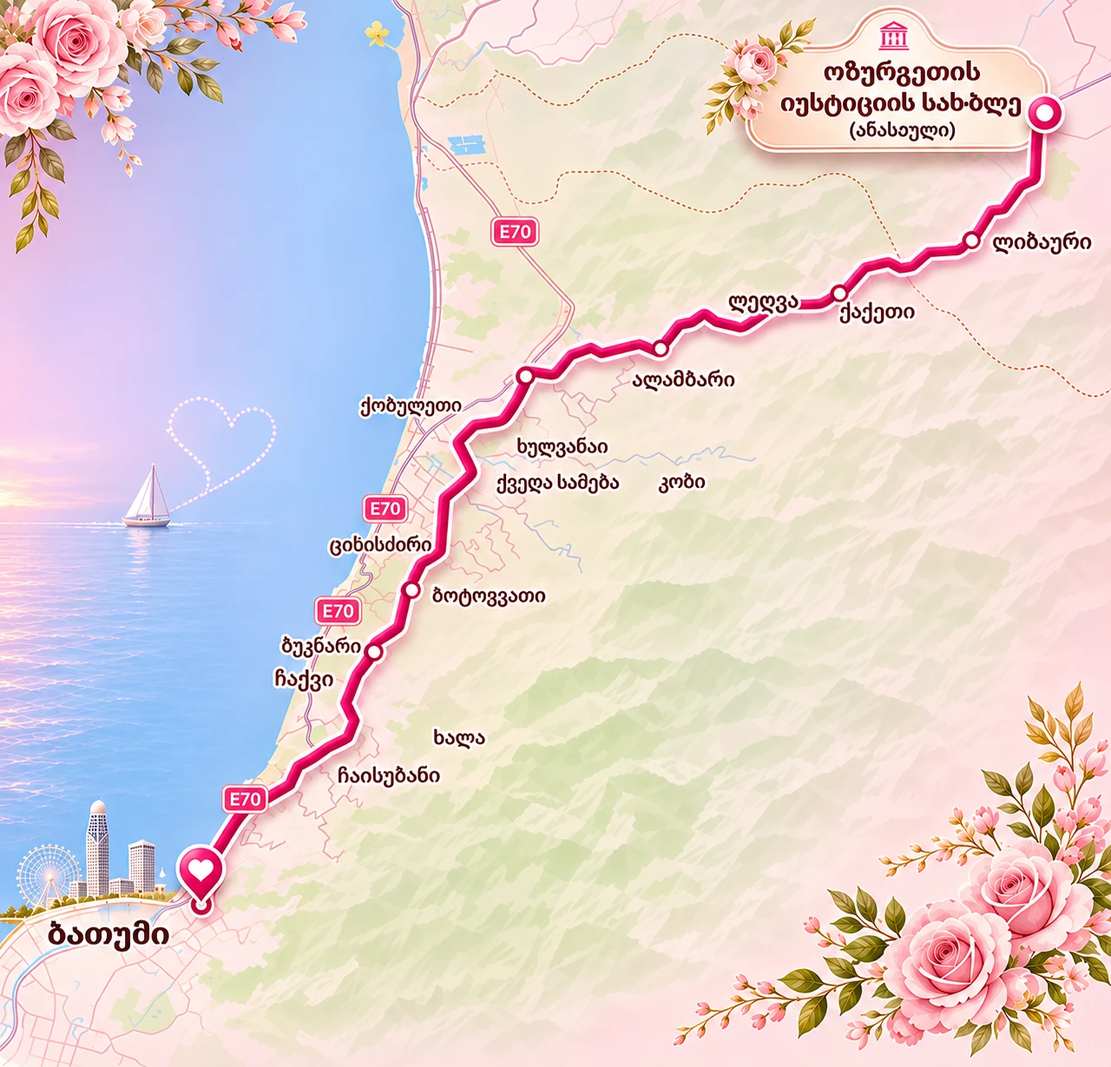
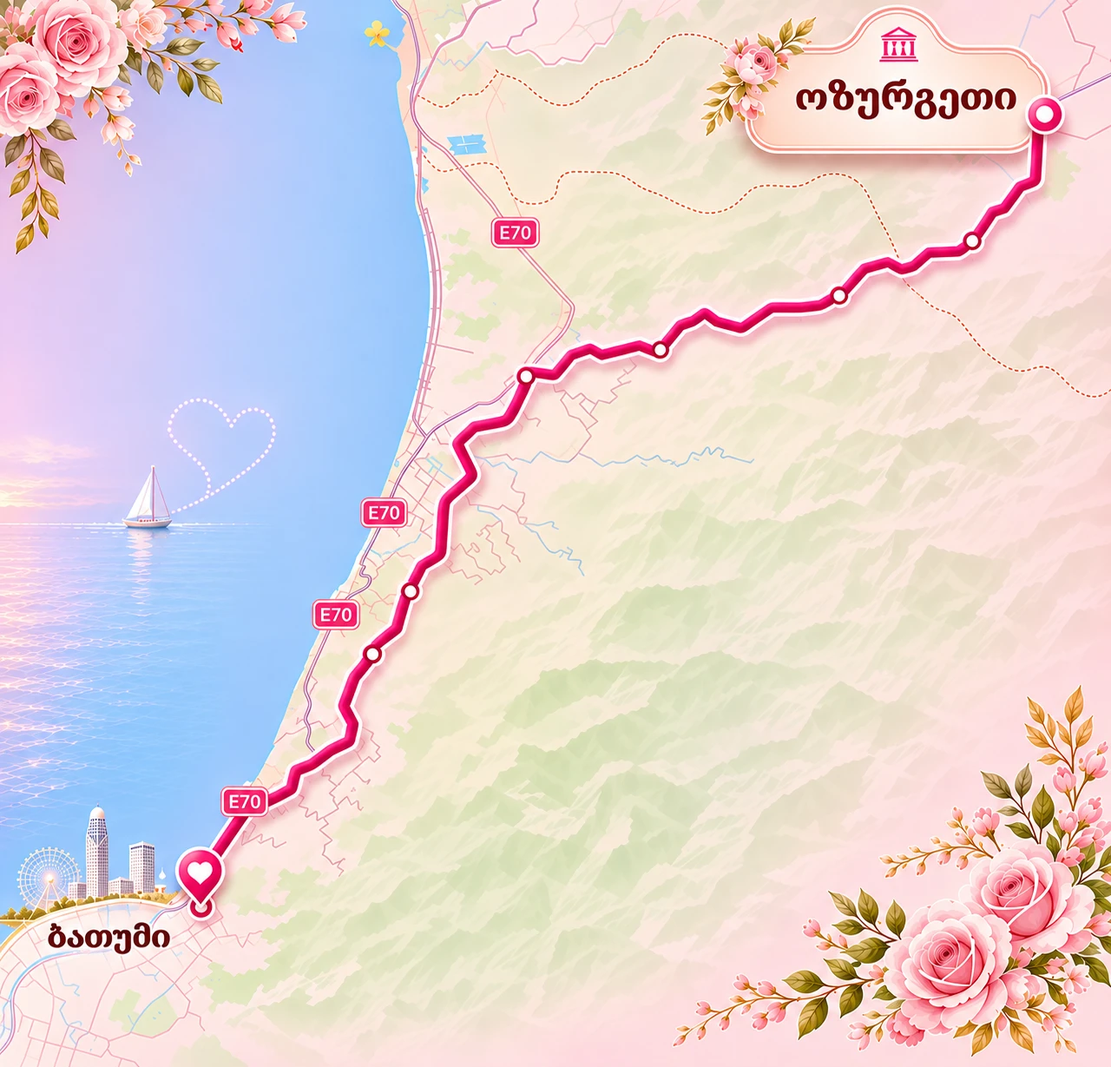
feat: update journey map to the cleaner version (cache-busted)
Replace journey-map.webp with the couple's cleaner Ozurgeti→Batumi map,
and reference it as journey-map.webp?v=2 so browsers and the CDN fetch
the new image instead of the cached old one.

diff --git a/index.html b/index.html
@@ -13,4 +13,4 @@
 @media(prefers-reduced-motion:reduce){#preloader .pl-prog{transition:none}}
 </style></head><body class="locked"><div id="preloader" role="progressbar" aria-valuemin="0" aria-valuemax="100" aria-valuenow="0" aria-label="საიტის ჩატვირთვა"><div class="pl-inner"><p class="pl-names">შოთა <em>&</em> ქეთი</p><div class="pl-ring"><svg viewBox="0 0 118 118"><circle class="pl-track" cx="59" cy="59" r="54"/><circle class="pl-prog" cx="59" cy="59" r="54"/></svg><span class="pl-pct" aria-live="polite">0%</span></div><p class="pl-label">მოსაწვევი იტვირთება…</p></div></div>
 <div id="intro" class="intro"><div class="intro-top"><span>ერთად იწყება ჩვენი ამბავი</span><span>14 / 11 / 2026</span></div><div class="scene photographic" id="scene"><div class="ceremony" id="ceremony"><video id="entrance-video" muted playsinline preload="auto" poster="open-aisle.jpg" aria-label="კარიბჭის მიღმა ნეფე-პატარძლის სიარული"><source src="wedding-video.mp4" type="video/mp4"></video></div><div class="gate-frame"><div class="photo-surround"></div><div class="gate left" id="leftGate"></div><div class="gate right" id="rightGate"></div></div></div><div class="intro-copy"><p class="eyebrow">მოხარულები ვართ, რომ ჩვენი ამბის ნაწილი ხართ</p><h1>შოთა <em>&</em> ქეთი</h1><p>ერთი სიყვარული. ერთი განსაკუთრებული დღე.</p><button id="open" class="primary">გახსენით მოსაწვევი <span>⟶</span></button><p class="small">14 ნოემბერი, 2026 · შაბათი</p></div><button id="skip" class="skip" hidden>მოსაწვევზე გადასვლა ⟶</button><div id="scene-caption" class="scene-caption" aria-live="polite"></div></div>
-<main id="main" hidden><svg class="vine-defs" xmlns="http://www.w3.org/2000/svg" aria-hidden="true"><defs><g id="grape-leaf"><path d="M0 0C-9-12-30-10-28-23L-39-28L-27-34L-35-45L-20-44L-19-59L-6-49L0-68L7-49L22-59L21-42L37-45L29-31L42-25L27-18C26-5 8-10 0 0Z"/><path class="leaf-veins" d="M0 0V-59M0-15L-25-34M0-26L-15-46M0-15L27-29M0-29L16-47"/></g><symbol id="vine-spray" viewBox="0 0 190 650"><path class="vine-stem" d="M20 650C8 562 104 550 68 455S32 324 96 258S127 124 101 0"/><path class="vine-tendril" d="M68 458C143 464 159 404 121 402C93 403 106 439 127 421M72 303C8 300 9 249 37 253C59 259 43 286 30 273M118 132C178 141 179 91 153 96C136 100 145 122 159 113"/><g class="vine-leaves"><use href="#grape-leaf" transform="translate(64 555) rotate(-58) scale(1.05)"/><use href="#grape-leaf" transform="translate(60 484) rotate(44) scale(.9)"/><use href="#grape-leaf" transform="translate(49 389) rotate(-55) scale(1.1)"/><use href="#grape-leaf" transform="translate(74 308) rotate(48) scale(.95)"/><use href="#grape-leaf" transform="translate(113 224) rotate(-45) scale(.85)"/><use href="#grape-leaf" transform="translate(123 147) rotate(56) scale(.8)"/><use href="#grape-leaf" transform="translate(113 65) rotate(-38) scale(.65)"/></g></symbol></defs></svg><div class="vine-border vine-border-left" aria-hidden="true"><svg viewBox="0 0 190 650"><use href="#vine-spray"/></svg></div><div class="vine-border vine-border-right" aria-hidden="true"><svg viewBox="0 0 190 650"><use href="#vine-spray"/></svg></div><header><a href="#home" class="brand" aria-label="შოთა და ქეთი — მთავარი"><img src="monogram.jpg" alt="შოთასა და ქეთის ოქროს მონოგრამა" width="60" height="60"></a><nav><a href="#schedule">განრიგი</a><a href="#gallery">გალერეა</a><a href="#rsvp">დადასტურება</a></nav></header><section class="hero" id="home"><div class="hero-art"><video id="hero-video" muted loop playsinline preload="none" poster="garden-ceremony.jpg" aria-label="საქორწილო ვიდეო — უწყვეტი გამეორება"><source src="wedding-video.mp4" type="video/mp4"></video><span>ჩვენი დღის შთაგონება</span></div><div class="hero-copy"><img class="hero-crest" src="monogram.jpg" alt="შ & ქ მონოგრამა" width="78" height="78"><p class="eyebrow">ჩვენ ვქორწინდებით</p><h2>შოთა<br><em>&</em> ქეთი</h2><div class="hero-flourish" aria-hidden="true"><svg viewBox="0 0 240 44"><path class="vine-stem" d="M14 24Q68 8 120 22T226 20"/><use href="#grape-leaf" transform="translate(80 20) rotate(-26) scale(.32)"/><use href="#grape-leaf" transform="translate(120 24) rotate(150) scale(.3)"/><use href="#grape-leaf" transform="translate(160 19) rotate(-30) scale(.3)"/></svg></div><p class="date">14 ნოემბერი, 2026 · შაბათი</p><p class="hero-place">ოზურგეთი &amp; ბათუმი</p><p>სიხარულით გიწვევთ ჩვენი სიყვარულის<br>ყველაზე განსაკუთრებულ დღეს.</p><a class="text-link" href="#schedule">ჩვენი დღის განრიგი ↓</a></div></section><section class="count-section" id="wedding-calendar"><p class="eyebrow calendar-kicker">შეინახეთ თარიღი</p><h2 class="month-title">ნოემბერი <span>2026</span></h2><div class="calendar-rule"></div><div class="vine-divider" aria-hidden="true"><svg viewBox="0 0 300 75"><path class="vine-stem" d="M15 50Q75 16 150 43T285 30"/><use href="#grape-leaf" transform="translate(80 35) rotate(-30) scale(.42)"/><use href="#grape-leaf" transform="translate(125 39) rotate(140) scale(.37)"/><use href="#grape-leaf" transform="translate(180 48) rotate(28) scale(.42)"/><use href="#grape-leaf" transform="translate(230 44) rotate(140) scale(.34)"/></svg></div><div class="month-card" aria-label="2026 წლის ნოემბრის კალენდარი"><svg class="mc-leaf mc-leaf-tl" viewBox="0 0 70 70" aria-hidden="true"><use href="#grape-leaf" transform="translate(34 36) rotate(18) scale(.52)"/></svg><svg class="mc-leaf mc-leaf-br" viewBox="0 0 70 70" aria-hidden="true"><use href="#grape-leaf" transform="translate(36 34) rotate(198) scale(.52)"/></svg><div class="weekdays"><span>ორ</span><span>სა</span><span>ოთ</span><span>ხუ</span><span>პა</span><span>შა</span><span>კვ</span></div><div class="month-grid"><span class="empty" aria-hidden="true"></span><span class="empty" aria-hidden="true"></span><span class="empty" aria-hidden="true"></span><span class="empty" aria-hidden="true"></span><span class="empty" aria-hidden="true"></span><span class="empty" aria-hidden="true"></span><span class="month-day"><span>1</span></span><span class="month-day"><span>2</span></span><span class="month-day"><span>3</span></span><span class="month-day"><span>4</span></span><span class="month-day"><span>5</span></span><span class="month-day"><span>6</span></span><span class="month-day"><span>7</span></span><span class="month-day"><span>8</span></span><span class="month-day"><span>9</span></span><span class="month-day"><span>10</span></span><span class="month-day"><span>11</span></span><span class="month-day"><span>12</span></span><span class="month-day"><span>13</span></span><span class="month-day wedding-day" aria-label="14 ნოემბერი — ჩვენი ქორწილის დღე"><span>14</span><svg viewBox="0 0 100 94" aria-hidden="true"><path d="M50 85C36 72 7 54 7 29C7 3 38 0 50 22C62 0 93 3 93 29C93 54 64 72 50 85Z"/></svg><small class="wd-label">ჩვენი დღე</small></span><span class="month-day"><span>15</span></span><span class="month-day"><span>16</span></span><span class="month-day"><span>17</span></span><span class="month-day"><span>18</span></span><span class="month-day"><span>19</span></span><span class="month-day"><span>20</span></span><span class="month-day"><span>21</span></span><span class="month-day"><span>22</span></span><span class="month-day"><span>23</span></span><span class="month-day"><span>24</span></span><span class="month-day"><span>25</span></span><span class="month-day"><span>26</span></span><span class="month-day"><span>27</span></span><span class="month-day"><span>28</span></span><span class="month-day"><span>29</span></span><span class="month-day"><span>30</span></span></div></div><p class="eyebrow countdown-title">ჩვენს დიდ დღემდე დარჩა</p><div id="countdown" class="countdown" role="timer" aria-label="ქორწილამდე დარჩენილი დრო"></div><p class="small" id="count-label">14 ნოემბერი · 13:00 · საქართველოს დროით</p></section><section id="schedule" class="schedule"><p class="eyebrow">დღე, რომელსაც ერთად გავიხსენებთ</p><h2>ჩვენი დღის განრიგი</h2><p class="location-hint">დააჭირეთ „მაჩვენე გზა“ — მარშრუტი პირდაპირ გაიხსნება</p><div class="journey reveal" aria-label="ჩვენი დღის მოგზაურობის რუკა"><img class="journey-photo" src="journey-map.webp" alt="ჩვენი დღის მოგზაურობა — ოზურგეთიდან ბათუმამდე" loading="lazy" width="1280" height="1229"><p class="journey-note">ჩვენი დღის მოგზაურობა — ოზურგეთიდან ბათუმამდე</p></div><div class="events"><article><span class="event-no">I</span><time>13:00</time><h3>ჯვრისწერა</h3><p>ოზურგეთის ღვთისმშობლის მიძინების<br>საკათედრო ტაძარი</p><a class="map-button" target="_blank" rel="noopener noreferrer" aria-label="ჯვრისწერის ადგილის რუკის გახსნა Google Maps-ში" href="https://www.google.com/maps/dir/?api=1&amp;destination=W2F3%2B94F%2C%20Ozurgeti%2C%20Georgia&amp;travelmode=driving&amp;dir_action=navigate"><svg viewBox="0 0 24 24" fill="none" aria-hidden="true"><path d="M20 10c0 6-8 12-8 12S4 16 4 10a8 8 0 1 1 16 0Z"/><circle cx="12" cy="10" r="2.5"/></svg><span>მაჩვენე გზა<small>Google Maps</small></span><span class="map-arrow">↗</span></a></article><article><span class="event-no">II</span><time>14:00</time><h3>ხელმოწერა</h3><p>ოზურგეთის იუსტიციის სახლი<br>იოანე პეტრიწის ქუჩა</p><a class="map-button" target="_blank" rel="noopener noreferrer" aria-label="იუსტიციის სახლის რუკის გახსნა Google Maps-ში" href="https://www.google.com/maps/dir/?api=1&amp;destination=W2F3%2B5X9%2C%20Ozurgeti%2C%20Georgia&amp;travelmode=driving&amp;dir_action=navigate"><svg viewBox="0 0 24 24" fill="none" aria-hidden="true"><path d="M20 10c0 6-8 12-8 12S4 16 4 10a8 8 0 1 1 16 0Z"/><circle cx="12" cy="10" r="2.5"/></svg><span>მაჩვენე გზა<small>Google Maps</small></span><span class="map-arrow">↗</span></a></article><article><span class="event-no">III</span><time>18:00</time><h3>საზეიმო ვახშამი</h3><p>ბათუმი<br>რესტორანი კრისტალ ჰოლი</p><a class="map-button" target="_blank" rel="noopener noreferrer" aria-label="საზეიმო ვახშმის ადგილის რუკის გახსნა Google Maps-ში" href="https://www.google.com/maps/dir/?api=1&amp;destination=41.6498757%2C41.7037522&amp;travelmode=driving&amp;dir_action=navigate"><svg viewBox="0 0 24 24" fill="none" aria-hidden="true"><path d="M20 10c0 6-8 12-8 12S4 16 4 10a8 8 0 1 1 16 0Z"/><circle cx="12" cy="10" r="2.5"/></svg><span>მაჩვენე გზა<small>Google Maps</small></span><span class="map-arrow">↗</span></a></article></div><a class="calendar" href="wedding.ics" download>＋ კალენდარში დამატება</a></section><section class="gallery" id="gallery"><div><p class="eyebrow">ჩვენი დღის განწყობა</p><h2>სიყვარულის ფერებში</h2><p>ყვავილები, თბილი სინათლე და თქვენ — ჩვენ გვერდით.</p></div><div class="photos"><button data-photo="table.jpg" aria-label="ყვავილების ფოტოს გადიდება"><img loading="lazy" src="table.jpg" alt="ოქროს დეტალები, თეთრი ყვავილები და სანთლები"></button><button data-photo="garden-ceremony.jpg" aria-label="ცერემონიის ფოტოს გადიდება"><img loading="lazy" src="garden-ceremony.jpg" alt="ბაღის ცერემონიის საცნობარო ფოტო"></button><button data-photo="church.jpg" aria-label="ტაძრის ფოტოს გადიდება"><img loading="lazy" src="church.jpg" alt="მოწოდებული ტაძრის საცნობარო ფოტო"></button></div><p class="small">საცნობარო გალერეა · წყვილის პირადი ფოტოები დაემატება მოგვიანებით</p></section><section id="rsvp" class="rsvp"><p class="eyebrow">გთხოვთ, დაგვიდასტუროთ</p><h2>დაადასტურეთ დასწრება</h2><p class="rsvp-sub">თქვენი პასუხი დაგვეხმარება დღის მოწყობაში</p><form id="rsvp-form" class="rsvp-form" novalidate><label class="rsvp-field"><span>სახელი და გვარი</span><input type="text" id="rsvp-name" required autocomplete="name" placeholder="თქვენი სახელი და გვარი"></label><div class="rsvp-field"><span>მობრძანდებით?</span><div class="rsvp-choice" role="group" aria-label="მობრძანდებით?"><button type="button" class="rsvp-opt" data-attend="სიამოვნებით მოვალ" aria-pressed="false">სიამოვნებით მოვალ</button><button type="button" class="rsvp-opt" data-attend="სამწუხაროდ, ვერ მოვალ" aria-pressed="false">სამწუხაროდ, ვერ მოვალ</button></div></div><label class="rsvp-field rsvp-persons" hidden><span>რამდენი პერსონა მობრძანდებით?</span><select id="rsvp-persons"><option value="1">1</option><option value="2">2</option><option value="3">3</option><option value="4">4</option><option value="5">5</option><option value="6">6</option><option value="7">7</option><option value="8">8</option><option value="9">9</option><option value="10">10</option><option value="11">11</option></select></label><button type="submit" class="rsvp-submit">გაგზავნა <span>→</span></button><p class="rsvp-msg" aria-live="polite"></p></form><div class="rsvp-done" hidden><div class="rsvp-done-mark" aria-hidden="true">♥</div><h3></h3><p></p></div></section><footer><img class="footer-logo" src="monogram.jpg" alt="შოთასა და ქეთის ოქროს მონოგრამა" width="110" height="110"><p>გელოდებით სიყვარულით</p><h2>შოთა <em>&</em> ქეთი</h2><p>14 · 11 · 2026</p><a class="credit" href="https://visionx.ge/" target="_blank" rel="noopener noreferrer">Created by <strong>visionx</strong></a></footer></main><audio id="wedding-audio" src="wedding-music.m4a" preload="metadata" loop></audio><button id="music" class="music" aria-pressed="false" aria-label="ფონური მუსიკის ჩართვა">♫ <span>მუსიკა</span></button><dialog id="lightbox"><button id="close-photo" aria-label="ფოტოს დახურვა">×</button><img id="large-photo" alt="გალერეის გადიდებული სურათი"></dialog><script src="app.js"></script></body></html>
+<main id="main" hidden><svg class="vine-defs" xmlns="http://www.w3.org/2000/svg" aria-hidden="true"><defs><g id="grape-leaf"><path d="M0 0C-9-12-30-10-28-23L-39-28L-27-34L-35-45L-20-44L-19-59L-6-49L0-68L7-49L22-59L21-42L37-45L29-31L42-25L27-18C26-5 8-10 0 0Z"/><path class="leaf-veins" d="M0 0V-59M0-15L-25-34M0-26L-15-46M0-15L27-29M0-29L16-47"/></g><symbol id="vine-spray" viewBox="0 0 190 650"><path class="vine-stem" d="M20 650C8 562 104 550 68 455S32 324 96 258S127 124 101 0"/><path class="vine-tendril" d="M68 458C143 464 159 404 121 402C93 403 106 439 127 421M72 303C8 300 9 249 37 253C59 259 43 286 30 273M118 132C178 141 179 91 153 96C136 100 145 122 159 113"/><g class="vine-leaves"><use href="#grape-leaf" transform="translate(64 555) rotate(-58) scale(1.05)"/><use href="#grape-leaf" transform="translate(60 484) rotate(44) scale(.9)"/><use href="#grape-leaf" transform="translate(49 389) rotate(-55) scale(1.1)"/><use href="#grape-leaf" transform="translate(74 308) rotate(48) scale(.95)"/><use href="#grape-leaf" transform="translate(113 224) rotate(-45) scale(.85)"/><use href="#grape-leaf" transform="translate(123 147) rotate(56) scale(.8)"/><use href="#grape-leaf" transform="translate(113 65) rotate(-38) scale(.65)"/></g></symbol></defs></svg><div class="vine-border vine-border-left" aria-hidden="true"><svg viewBox="0 0 190 650"><use href="#vine-spray"/></svg></div><div class="vine-border vine-border-right" aria-hidden="true"><svg viewBox="0 0 190 650"><use href="#vine-spray"/></svg></div><header><a href="#home" class="brand" aria-label="შოთა და ქეთი — მთავარი"><img src="monogram.jpg" alt="შოთასა და ქეთის ოქროს მონოგრამა" width="60" height="60"></a><nav><a href="#schedule">განრიგი</a><a href="#gallery">გალერეა</a><a href="#rsvp">დადასტურება</a></nav></header><section class="hero" id="home"><div class="hero-art"><video id="hero-video" muted loop playsinline preload="none" poster="garden-ceremony.jpg" aria-label="საქორწილო ვიდეო — უწყვეტი გამეორება"><source src="wedding-video.mp4" type="video/mp4"></video><span>ჩვენი დღის შთაგონება</span></div><div class="hero-copy"><img class="hero-crest" src="monogram.jpg" alt="შ & ქ მონოგრამა" width="78" height="78"><p class="eyebrow">ჩვენ ვქორწინდებით</p><h2>შოთა<br><em>&</em> ქეთი</h2><div class="hero-flourish" aria-hidden="true"><svg viewBox="0 0 240 44"><path class="vine-stem" d="M14 24Q68 8 120 22T226 20"/><use href="#grape-leaf" transform="translate(80 20) rotate(-26) scale(.32)"/><use href="#grape-leaf" transform="translate(120 24) rotate(150) scale(.3)"/><use href="#grape-leaf" transform="translate(160 19) rotate(-30) scale(.3)"/></svg></div><p class="date">14 ნოემბერი, 2026 · შაბათი</p><p class="hero-place">ოზურგეთი &amp; ბათუმი</p><p>სიხარულით გიწვევთ ჩვენი სიყვარულის<br>ყველაზე განსაკუთრებულ დღეს.</p><a class="text-link" href="#schedule">ჩვენი დღის განრიგი ↓</a></div></section><section class="count-section" id="wedding-calendar"><p class="eyebrow calendar-kicker">შეინახეთ თარიღი</p><h2 class="month-title">ნოემბერი <span>2026</span></h2><div class="calendar-rule"></div><div class="vine-divider" aria-hidden="true"><svg viewBox="0 0 300 75"><path class="vine-stem" d="M15 50Q75 16 150 43T285 30"/><use href="#grape-leaf" transform="translate(80 35) rotate(-30) scale(.42)"/><use href="#grape-leaf" transform="translate(125 39) rotate(140) scale(.37)"/><use href="#grape-leaf" transform="translate(180 48) rotate(28) scale(.42)"/><use href="#grape-leaf" transform="translate(230 44) rotate(140) scale(.34)"/></svg></div><div class="month-card" aria-label="2026 წლის ნოემბრის კალენდარი"><svg class="mc-leaf mc-leaf-tl" viewBox="0 0 70 70" aria-hidden="true"><use href="#grape-leaf" transform="translate(34 36) rotate(18) scale(.52)"/></svg><svg class="mc-leaf mc-leaf-br" viewBox="0 0 70 70" aria-hidden="true"><use href="#grape-leaf" transform="translate(36 34) rotate(198) scale(.52)"/></svg><div class="weekdays"><span>ორ</span><span>სა</span><span>ოთ</span><span>ხუ</span><span>პა</span><span>შა</span><span>კვ</span></div><div class="month-grid"><span class="empty" aria-hidden="true"></span><span class="empty" aria-hidden="true"></span><span class="empty" aria-hidden="true"></span><span class="empty" aria-hidden="true"></span><span class="empty" aria-hidden="true"></span><span class="empty" aria-hidden="true"></span><span class="month-day"><span>1</span></span><span class="month-day"><span>2</span></span><span class="month-day"><span>3</span></span><span class="month-day"><span>4</span></span><span class="month-day"><span>5</span></span><span class="month-day"><span>6</span></span><span class="month-day"><span>7</span></span><span class="month-day"><span>8</span></span><span class="month-day"><span>9</span></span><span class="month-day"><span>10</span></span><span class="month-day"><span>11</span></span><span class="month-day"><span>12</span></span><span class="month-day"><span>13</span></span><span class="month-day wedding-day" aria-label="14 ნოემბერი — ჩვენი ქორწილის დღე"><span>14</span><svg viewBox="0 0 100 94" aria-hidden="true"><path d="M50 85C36 72 7 54 7 29C7 3 38 0 50 22C62 0 93 3 93 29C93 54 64 72 50 85Z"/></svg><small class="wd-label">ჩვენი დღე</small></span><span class="month-day"><span>15</span></span><span class="month-day"><span>16</span></span><span class="month-day"><span>17</span></span><span class="month-day"><span>18</span></span><span class="month-day"><span>19</span></span><span class="month-day"><span>20</span></span><span class="month-day"><span>21</span></span><span class="month-day"><span>22</span></span><span class="month-day"><span>23</span></span><span class="month-day"><span>24</span></span><span class="month-day"><span>25</span></span><span class="month-day"><span>26</span></span><span class="month-day"><span>27</span></span><span class="month-day"><span>28</span></span><span class="month-day"><span>29</span></span><span class="month-day"><span>30</span></span></div></div><p class="eyebrow countdown-title">ჩვენს დიდ დღემდე დარჩა</p><div id="countdown" class="countdown" role="timer" aria-label="ქორწილამდე დარჩენილი დრო"></div><p class="small" id="count-label">14 ნოემბერი · 13:00 · საქართველოს დროით</p></section><section id="schedule" class="schedule"><p class="eyebrow">დღე, რომელსაც ერთად გავიხსენებთ</p><h2>ჩვენი დღის განრიგი</h2><p class="location-hint">დააჭირეთ „მაჩვენე გზა“ — მარშრუტი პირდაპირ გაიხსნება</p><div class="journey reveal" aria-label="ჩვენი დღის მოგზაურობის რუკა"><img class="journey-photo" src="journey-map.webp?v=2" alt="ჩვენი დღის მოგზაურობა — ოზურგეთიდან ბათუმამდე" loading="lazy" width="1280" height="1229"><p class="journey-note">ჩვენი დღის მოგზაურობა — ოზურგეთიდან ბათუმამდე</p></div><div class="events"><article><span class="event-no">I</span><time>13:00</time><h3>ჯვრისწერა</h3><p>ოზურგეთის ღვთისმშობლის მიძინების<br>საკათედრო ტაძარი</p><a class="map-button" target="_blank" rel="noopener noreferrer" aria-label="ჯვრისწერის ადგილის რუკის გახსნა Google Maps-ში" href="https://www.google.com/maps/dir/?api=1&amp;destination=W2F3%2B94F%2C%20Ozurgeti%2C%20Georgia&amp;travelmode=driving&amp;dir_action=navigate"><svg viewBox="0 0 24 24" fill="none" aria-hidden="true"><path d="M20 10c0 6-8 12-8 12S4 16 4 10a8 8 0 1 1 16 0Z"/><circle cx="12" cy="10" r="2.5"/></svg><span>მაჩვენე გზა<small>Google Maps</small></span><span class="map-arrow">↗</span></a></article><article><span class="event-no">II</span><time>14:00</time><h3>ხელმოწერა</h3><p>ოზურგეთის იუსტიციის სახლი<br>იოანე პეტრიწის ქუჩა</p><a class="map-button" target="_blank" rel="noopener noreferrer" aria-label="იუსტიციის სახლის რუკის გახსნა Google Maps-ში" href="https://www.google.com/maps/dir/?api=1&amp;destination=W2F3%2B5X9%2C%20Ozurgeti%2C%20Georgia&amp;travelmode=driving&amp;dir_action=navigate"><svg viewBox="0 0 24 24" fill="none" aria-hidden="true"><path d="M20 10c0 6-8 12-8 12S4 16 4 10a8 8 0 1 1 16 0Z"/><circle cx="12" cy="10" r="2.5"/></svg><span>მაჩვენე გზა<small>Google Maps</small></span><span class="map-arrow">↗</span></a></article><article><span class="event-no">III</span><time>18:00</time><h3>საზეიმო ვახშამი</h3><p>ბათუმი<br>რესტორანი კრისტალ ჰოლი</p><a class="map-button" target="_blank" rel="noopener noreferrer" aria-label="საზეიმო ვახშმის ადგილის რუკის გახსნა Google Maps-ში" href="https://www.google.com/maps/dir/?api=1&amp;destination=41.6498757%2C41.7037522&amp;travelmode=driving&amp;dir_action=navigate"><svg viewBox="0 0 24 24" fill="none" aria-hidden="true"><path d="M20 10c0 6-8 12-8 12S4 16 4 10a8 8 0 1 1 16 0Z"/><circle cx="12" cy="10" r="2.5"/></svg><span>მაჩვენე გზა<small>Google Maps</small></span><span class="map-arrow">↗</span></a></article></div><a class="calendar" href="wedding.ics" download>＋ კალენდარში დამატება</a></section><section class="gallery" id="gallery"><div><p class="eyebrow">ჩვენი დღის განწყობა</p><h2>სიყვარულის ფერებში</h2><p>ყვავილები, თბილი სინათლე და თქვენ — ჩვენ გვერდით.</p></div><div class="photos"><button data-photo="table.jpg" aria-label="ყვავილების ფოტოს გადიდება"><img loading="lazy" src="table.jpg" alt="ოქროს დეტალები, თეთრი ყვავილები და სანთლები"></button><button data-photo="garden-ceremony.jpg" aria-label="ცერემონიის ფოტოს გადიდება"><img loading="lazy" src="garden-ceremony.jpg" alt="ბაღის ცერემონიის საცნობარო ფოტო"></button><button data-photo="church.jpg" aria-label="ტაძრის ფოტოს გადიდება"><img loading="lazy" src="church.jpg" alt="მოწოდებული ტაძრის საცნობარო ფოტო"></button></div><p class="small">საცნობარო გალერეა · წყვილის პირადი ფოტოები დაემატება მოგვიანებით</p></section><section id="rsvp" class="rsvp"><p class="eyebrow">გთხოვთ, დაგვიდასტუროთ</p><h2>დაადასტურეთ დასწრება</h2><p class="rsvp-sub">თქვენი პასუხი დაგვეხმარება დღის მოწყობაში</p><form id="rsvp-form" class="rsvp-form" novalidate><label class="rsvp-field"><span>სახელი და გვარი</span><input type="text" id="rsvp-name" required autocomplete="name" placeholder="თქვენი სახელი და გვარი"></label><div class="rsvp-field"><span>მობრძანდებით?</span><div class="rsvp-choice" role="group" aria-label="მობრძანდებით?"><button type="button" class="rsvp-opt" data-attend="სიამოვნებით მოვალ" aria-pressed="false">სიამოვნებით მოვალ</button><button type="button" class="rsvp-opt" data-attend="სამწუხაროდ, ვერ მოვალ" aria-pressed="false">სამწუხაროდ, ვერ მოვალ</button></div></div><label class="rsvp-field rsvp-persons" hidden><span>რამდენი პერსონა მობრძანდებით?</span><select id="rsvp-persons"><option value="1">1</option><option value="2">2</option><option value="3">3</option><option value="4">4</option><option value="5">5</option><option value="6">6</option><option value="7">7</option><option value="8">8</option><option value="9">9</option><option value="10">10</option><option value="11">11</option></select></label><button type="submit" class="rsvp-submit">გაგზავნა <span>→</span></button><p class="rsvp-msg" aria-live="polite"></p></form><div class="rsvp-done" hidden><div class="rsvp-done-mark" aria-hidden="true">♥</div><h3></h3><p></p></div></section><footer><img class="footer-logo" src="monogram.jpg" alt="შოთასა და ქეთის ოქროს მონოგრამა" width="110" height="110"><p>გელოდებით სიყვარულით</p><h2>შოთა <em>&</em> ქეთი</h2><p>14 · 11 · 2026</p><a class="credit" href="https://visionx.ge/" target="_blank" rel="noopener noreferrer">Created by <strong>visionx</strong></a></footer></main><audio id="wedding-audio" src="wedding-music.m4a" preload="metadata" loop></audio><button id="music" class="music" aria-pressed="false" aria-label="ფონური მუსიკის ჩართვა">♫ <span>მუსიკა</span></button><dialog id="lightbox"><button id="close-photo" aria-label="ფოტოს დახურვა">×</button><img id="large-photo" alt="გალერეის გადიდებული სურათი"></dialog><script src="app.js"></script></body></html>
